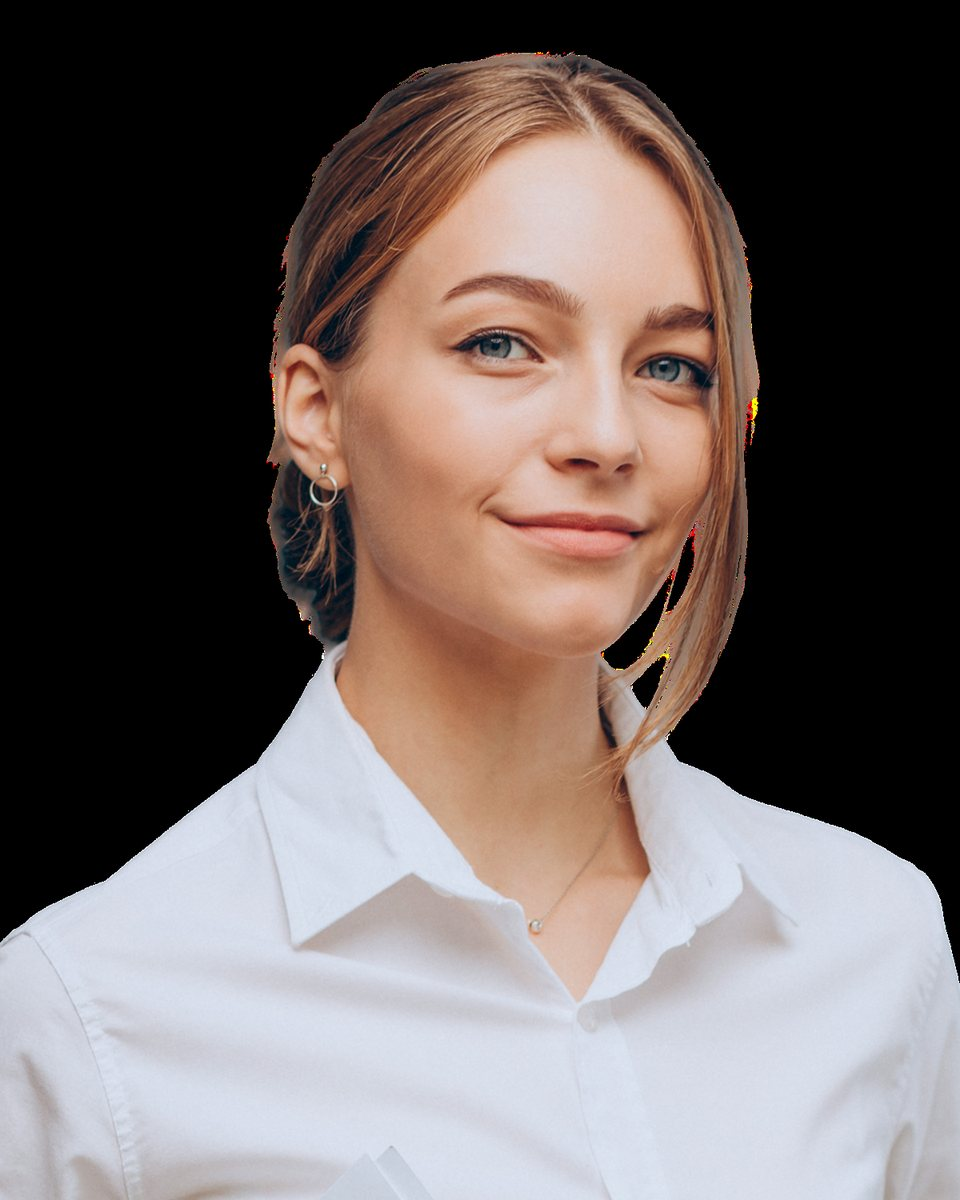
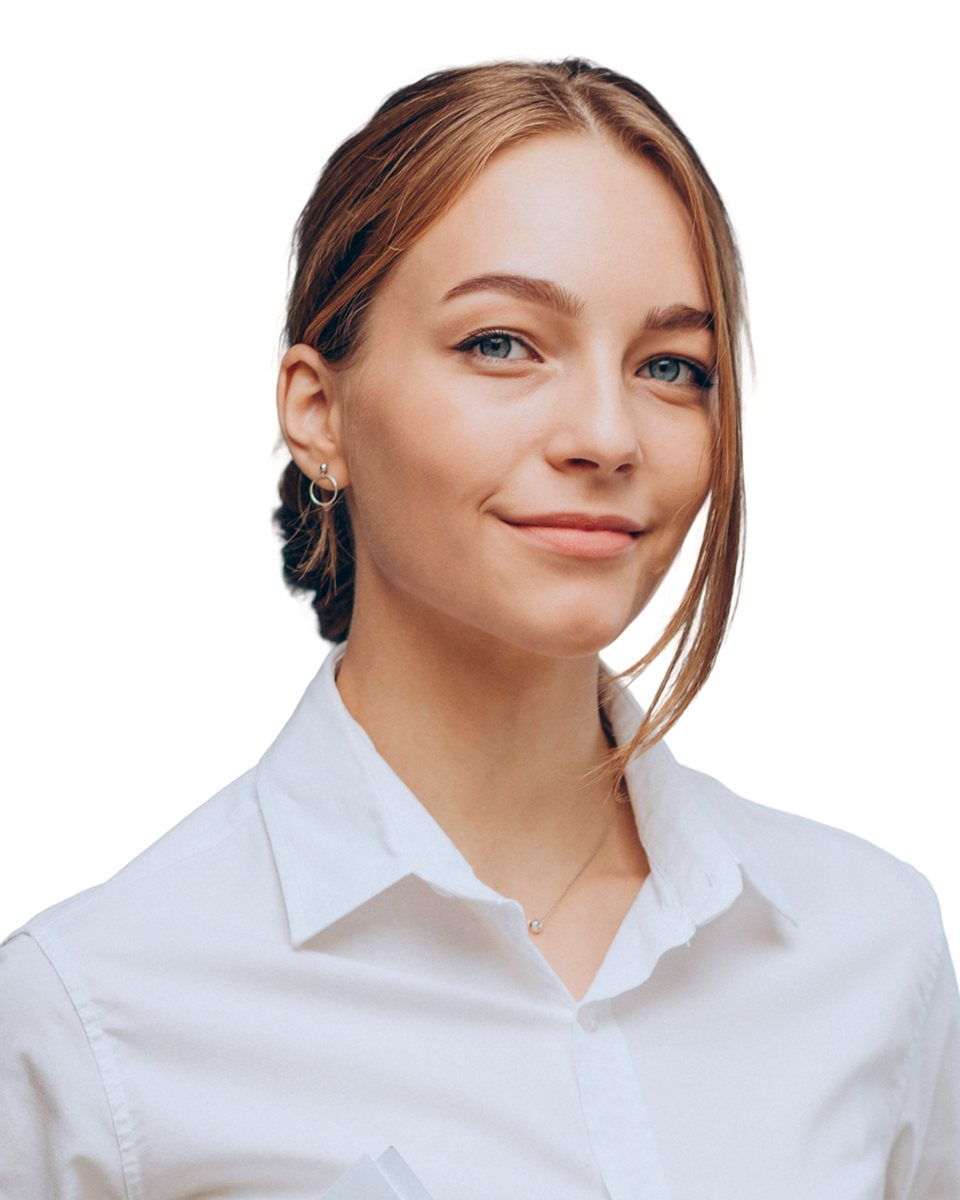
v3.13: process text types per card as it lands; white background on team photos
Claude-Session: https://claude.ai/code/session_01DrEDLK8tzWRYGSwsBdekjh

diff --git a/main.js b/main.js
@@ -244,15 +244,17 @@ function initMavpy(root) {
     steps.forEach(function (st) { st.classList.add('pseq'); var m = st.querySelector('[data-type="scroll"]'); if (m) m.classList.add('tw-wait'); });
     /* v3.12: cards slide in one after another without pauses; once all are in, texts type —
        card 1, card 2 0.7 s later, card 3 another 0.7 s later (overlapping); each line draws with its text */
+    /* v3.13: cards slide in top to bottom; each card's text types fast the moment that card has landed */
     var runStep = function () {
-      steps.forEach(function (st, k) { setTimeout(function () { st.classList.add('pseq-in'); }, k * 220); });
-      var allIn = (steps.length - 1) * 220 + 700;
       steps.forEach(function (st, k) {
         setTimeout(function () {
-          st.classList.add('pseq-line');
-          var txt = st.querySelector('[data-type="scroll"]');
-          if (txt) typeIt(txt, 0, null, 18);
-        }, allIn + k * 700);
+          st.classList.add('pseq-in');
+          setTimeout(function () {
+            st.classList.add('pseq-line');
+            var txt = st.querySelector('[data-type="scroll"]');
+            if (txt) typeIt(txt, 0, null, 8);
+          }, 450);
+        }, k * 220);
       });
     };
     var sio = new win.IntersectionObserver(function (entries) {

diff --git a/styles.css b/styles.css
@@ -1150,3 +1150,4 @@
 .v-price > span:first-child{grid-column:1;grid-row:1}
 .v-price b{grid-column:2;grid-row:1;justify-self:start}
 .v-price .v-price-sub{grid-column:2;grid-row:2;flex-basis:auto}
+.pseq .v-flow-side::before{transition-duration:.9s}

diff --git a/tools/build.py b/tools/build.py
@@ -1,5 +1,5 @@
 #!/usr/bin/env python3
-"""MAVPY site v3.12 ("Swiss workshop"). One template → UA (/, default) and EN (/en/).
+"""MAVPY site v3.13 ("Swiss workshop"). One template → UA (/, default) and EN (/en/).
 Usage: python3 tools/build.py .   (writes index.html and ua/index.html into the repo)"""
 import os, sys
 sys.path.insert(0, os.path.dirname(os.path.abspath(__file__)))

diff --git a/CHANGELOG.md b/CHANGELOG.md
@@ -20,6 +20,11 @@
 
 ---
 
+## v3.13 — 26.11.2026
+Git: ветка v3.13/edits · Figma: вкладка «🗂 v3.13 · 26.11.2026», правки — «✏ Правки v3.13 (закрыто)» (макеты без изменений — правки только в анимации и фото)
+- Процесс: карточки выезжают сверху вниз, текст каждой быстро печатается сразу, как она появилась
+- Команда: белый фон на фото Юлии, Марины, Никиты (прозрачный фон PNG превращался в чёрный в JPG)
+
 ## v3.12 — 26.11.2026
 Git: ветка v3.12/edits · Figma: «v3.12 · EN Desktop 1920», «v3.12 · EN Mobile 390», «v3.12 · UA Desktop 1920», «v3.12 · UA Mobile 390», вкладка «🗂 v3.12 · 26.11.2026», правки — «✏ Правки v3.12 (закрыто)»
 Заметки Сергея на странице «✏ Правки и контент → v3.12» (notes/2026-11-26-v3.12-edits.md).

diff --git a/notes/2026-11-26-v3.13-edits.md b/notes/2026-11-26-v3.13-edits.md
@@ -1,0 +1,8 @@
+# v3.13 — правки 26.11.2026 (поздний вечер)
+
+Источник: комментарии Сергея в чате, записаны в карточки «✏ Правки и контент → v3.13».
+
+| Блок | Правка |
+|---|---|
+| Процес | Карточки появляются сверху вниз (шаг 0,22 с), как и было. Текст каждой карточки быстро печатается сразу, как она появилась (через 0,45 с), без общей очереди. Линия рисуется вместе с текстом. |
+| Команда | У новых фото был прозрачный фон; при сохранении в JPG он стал чёрным. Пересохранил на белом. |
